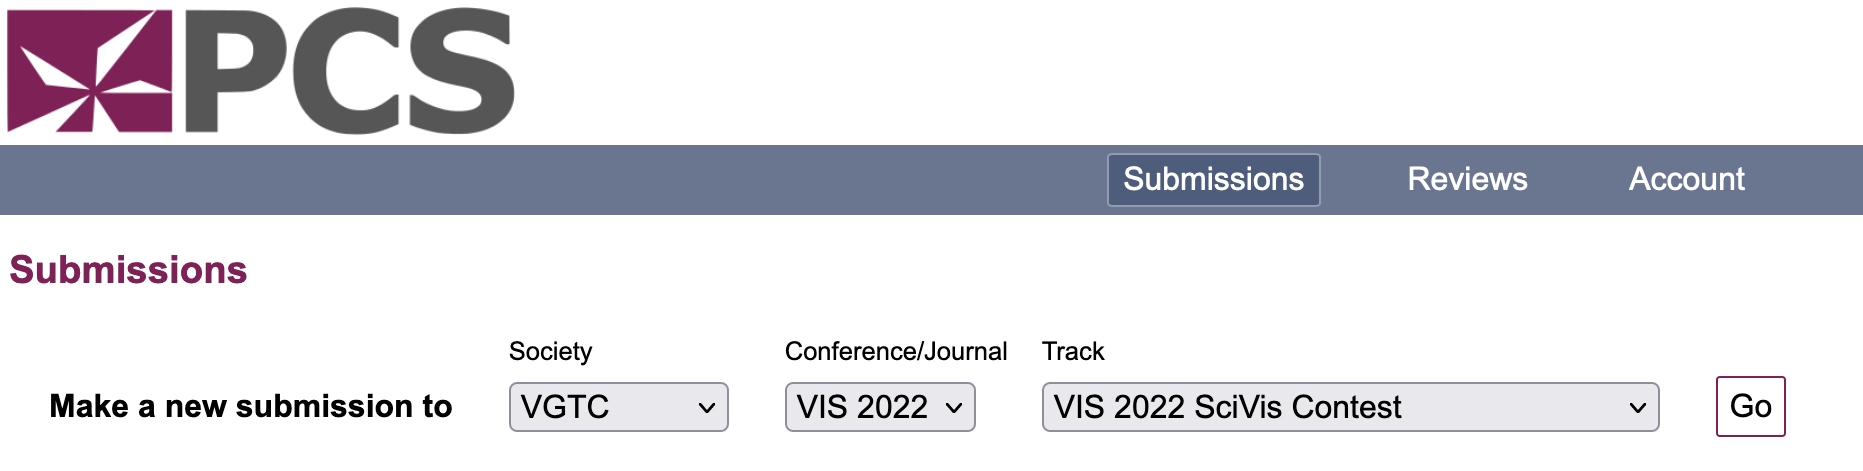
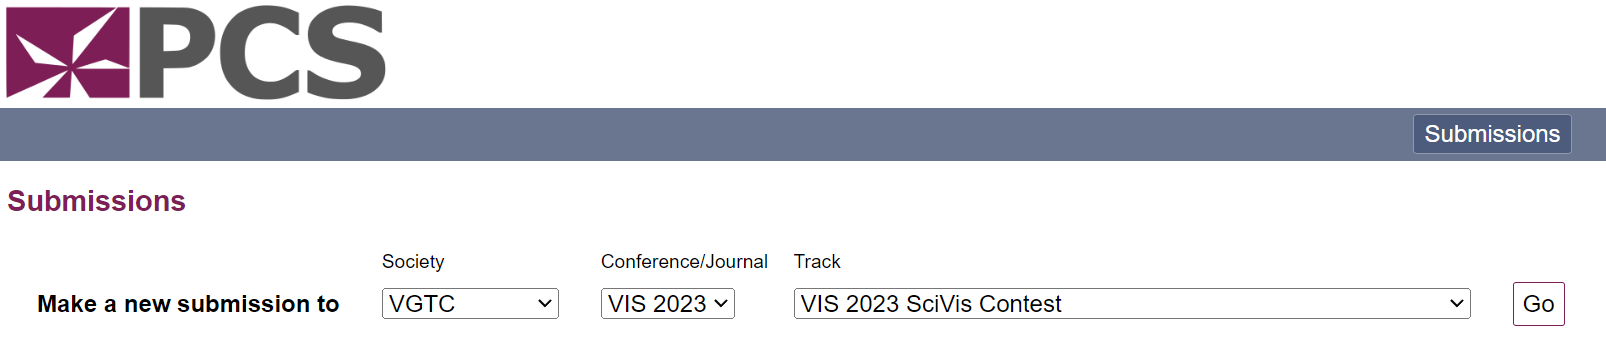
Added dates and new submit image

diff --git a/docs/submission/index.html b/docs/submission/index.html
@@ -195,9 +195,8 @@
 </li>
 <li>Sign in or create a new account</li>
 <li>Go to the <em>Submissions</em> tab at the top</li>
-<li>Under <em>Make a new submission to</em> select <em>VGTC</em> as Society, <em>VIS 2023</em> as Conference/Journal, and <em>VIS 2023 SciVis Contest</em> as Track, similar to the data in the screenshot:<br>
-<img src="/submit.png" alt="Submission Selection">
-The correct dates will be added in the future.</li>
+<li>Under <em>Make a new submission to</em> select <em>VGTC</em> as Society, <em>VIS 2023</em> as Conference/Journal, and <em>VIS 2023 SciVis Contest</em> as Track, as shown in this screenshot:<br>
+<img src="/submit.png" alt="Submission Selection"></li>
 <li>Edit the submission with your data and record the changes</li>
 </ol>
 
@@ -226,7 +225,7 @@ There might be slight changes but the plan is this:</p>
 <table>
 <thead>
 <tr>
-<th style="text-align:left">Approximated dates</th>
+<th style="text-align:left">Dates</th>
 <th></th>
 </tr>
 </thead>
@@ -236,7 +235,7 @@ There might be slight changes but the plan is this:</p>
 <td style="text-align:left">Official announcement of the 2023 IEEE SciVis Contest at IEEE Vis 2022.</td>
 </tr>
 <tr>
-<td style="text-align:left">approx. July, 2023</td>
+<td style="text-align:left"><strong>July 31, 2023</strong></td>
 <td style="text-align:left">Submission Deadline.</td>
 </tr>
 <tr>

diff --git a/public/submission/index.html b/public/submission/index.html
@@ -195,9 +195,8 @@
 </li>
 <li>Sign in or create a new account</li>
 <li>Go to the <em>Submissions</em> tab at the top</li>
-<li>Under <em>Make a new submission to</em> select <em>VGTC</em> as Society, <em>VIS 2023</em> as Conference/Journal, and <em>VIS 2023 SciVis Contest</em> as Track, similar to the data in the screenshot:<br>
-<img src="/submit.png" alt="Submission Selection">
-The correct dates will be added in the future.</li>
+<li>Under <em>Make a new submission to</em> select <em>VGTC</em> as Society, <em>VIS 2023</em> as Conference/Journal, and <em>VIS 2023 SciVis Contest</em> as Track, as shown in this screenshot:<br>
+<img src="/submit.png" alt="Submission Selection"></li>
 <li>Edit the submission with your data and record the changes</li>
 </ol>
 
@@ -226,7 +225,7 @@ There might be slight changes but the plan is this:</p>
 <table>
 <thead>
 <tr>
-<th style="text-align:left">Approximated dates</th>
+<th style="text-align:left">Dates</th>
 <th></th>
 </tr>
 </thead>
@@ -236,7 +235,7 @@ There might be slight changes but the plan is this:</p>
 <td style="text-align:left">Official announcement of the 2023 IEEE SciVis Contest at IEEE Vis 2022.</td>
 </tr>
 <tr>
-<td style="text-align:left">approx. July, 2023</td>
+<td style="text-align:left"><strong>July 31, 2023</strong></td>
 <td style="text-align:left">Submission Deadline.</td>
 </tr>
 <tr>

diff --git a/docs/submission/instruction/index.html b/docs/submission/instruction/index.html
@@ -182,9 +182,8 @@
 </li>
 <li>Sign in or create a new account</li>
 <li>Go to the <em>Submissions</em> tab at the top</li>
-<li>Under <em>Make a new submission to</em> select <em>VGTC</em> as Society, <em>VIS 2023</em> as Conference/Journal, and <em>VIS 2023 SciVis Contest</em> as Track, similar to the data in the screenshot:<br>
-<img src="/submit.png" alt="Submission Selection">
-The correct dates will be added in the future.</li>
+<li>Under <em>Make a new submission to</em> select <em>VGTC</em> as Society, <em>VIS 2023</em> as Conference/Journal, and <em>VIS 2023 SciVis Contest</em> as Track, as shown in this screenshot:<br>
+<img src="/submit.png" alt="Submission Selection"></li>
 <li>Edit the submission with your data and record the changes</li>
 </ol>
 

diff --git a/public/submission/instruction/index.html b/public/submission/instruction/index.html
@@ -182,9 +182,8 @@
 </li>
 <li>Sign in or create a new account</li>
 <li>Go to the <em>Submissions</em> tab at the top</li>
-<li>Under <em>Make a new submission to</em> select <em>VGTC</em> as Society, <em>VIS 2023</em> as Conference/Journal, and <em>VIS 2023 SciVis Contest</em> as Track, similar to the data in the screenshot:<br>
-<img src="/submit.png" alt="Submission Selection">
-The correct dates will be added in the future.</li>
+<li>Under <em>Make a new submission to</em> select <em>VGTC</em> as Society, <em>VIS 2023</em> as Conference/Journal, and <em>VIS 2023 SciVis Contest</em> as Track, as shown in this screenshot:<br>
+<img src="/submit.png" alt="Submission Selection"></li>
 <li>Edit the submission with your data and record the changes</li>
 </ol>
 

diff --git a/docs/submission/dates/index.html b/docs/submission/dates/index.html
@@ -174,7 +174,7 @@ There might be slight changes but the plan is this:</p>
 <table>
 <thead>
 <tr>
-<th style="text-align:left">Approximated dates</th>
+<th style="text-align:left">Dates</th>
 <th></th>
 </tr>
 </thead>
@@ -184,7 +184,7 @@ There might be slight changes but the plan is this:</p>
 <td style="text-align:left">Official announcement of the 2023 IEEE SciVis Contest at IEEE Vis 2022.</td>
 </tr>
 <tr>
-<td style="text-align:left">approx. July, 2023</td>
+<td style="text-align:left"><strong>July 31, 2023</strong></td>
 <td style="text-align:left">Submission Deadline.</td>
 </tr>
 <tr>

diff --git a/public/submission/dates/index.html b/public/submission/dates/index.html
@@ -174,7 +174,7 @@ There might be slight changes but the plan is this:</p>
 <table>
 <thead>
 <tr>
-<th style="text-align:left">Approximated dates</th>
+<th style="text-align:left">Dates</th>
 <th></th>
 </tr>
 </thead>
@@ -184,7 +184,7 @@ There might be slight changes but the plan is this:</p>
 <td style="text-align:left">Official announcement of the 2023 IEEE SciVis Contest at IEEE Vis 2022.</td>
 </tr>
 <tr>
-<td style="text-align:left">approx. July, 2023</td>
+<td style="text-align:left"><strong>July 31, 2023</strong></td>
 <td style="text-align:left">Submission Deadline.</td>
 </tr>
 <tr>

diff --git a/content/submission/instruction.md b/content/submission/instruction.md
@@ -14,9 +14,8 @@ To submit:
 1. Go to https://new.precisionconference.com
 2. Sign in or create a new account
 3. Go to the *Submissions* tab at the top 
-4. Under *Make a new submission to* select *VGTC* as Society, *VIS 2023* as Conference/Journal, and *VIS 2023 SciVis Contest* as Track, similar to the data in the screenshot:  
+4. Under *Make a new submission to* select *VGTC* as Society, *VIS 2023* as Conference/Journal, and *VIS 2023 SciVis Contest* as Track, as shown in this screenshot:  
 ![Submission Selection](/submit.png)
-The correct dates will be added in the future.
 5. Edit the submission with your data and record the changes  
 
 

diff --git a/content/submission/dates.md b/content/submission/dates.md
@@ -7,10 +7,10 @@ weight: 2
 We will be following the process of the last years.  
 There might be slight changes but the plan is this:
 
-| Approximated dates
+| Dates
 | :---        |    :---   |
 | **October 20, 2022** |  Official announcement of the 2023 IEEE SciVis Contest at IEEE Vis 2022.  |
-| approx. July, 2023 |  Submission Deadline.  |
+| **July 31, 2023** |  Submission Deadline.  |
 | approx. September, 2023 |  Winner notification.  |
 | approx. October, 2023 | Official announcement of the end results at IEEE Vis 2023. |  
 
